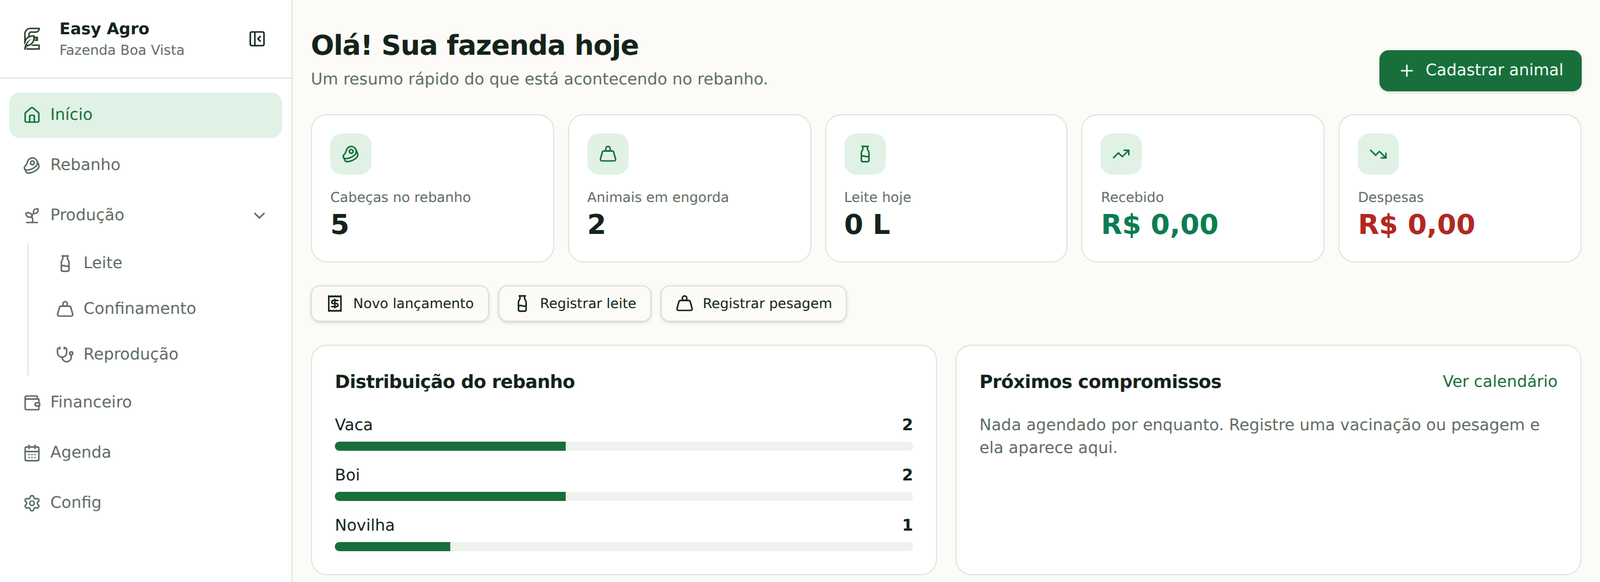
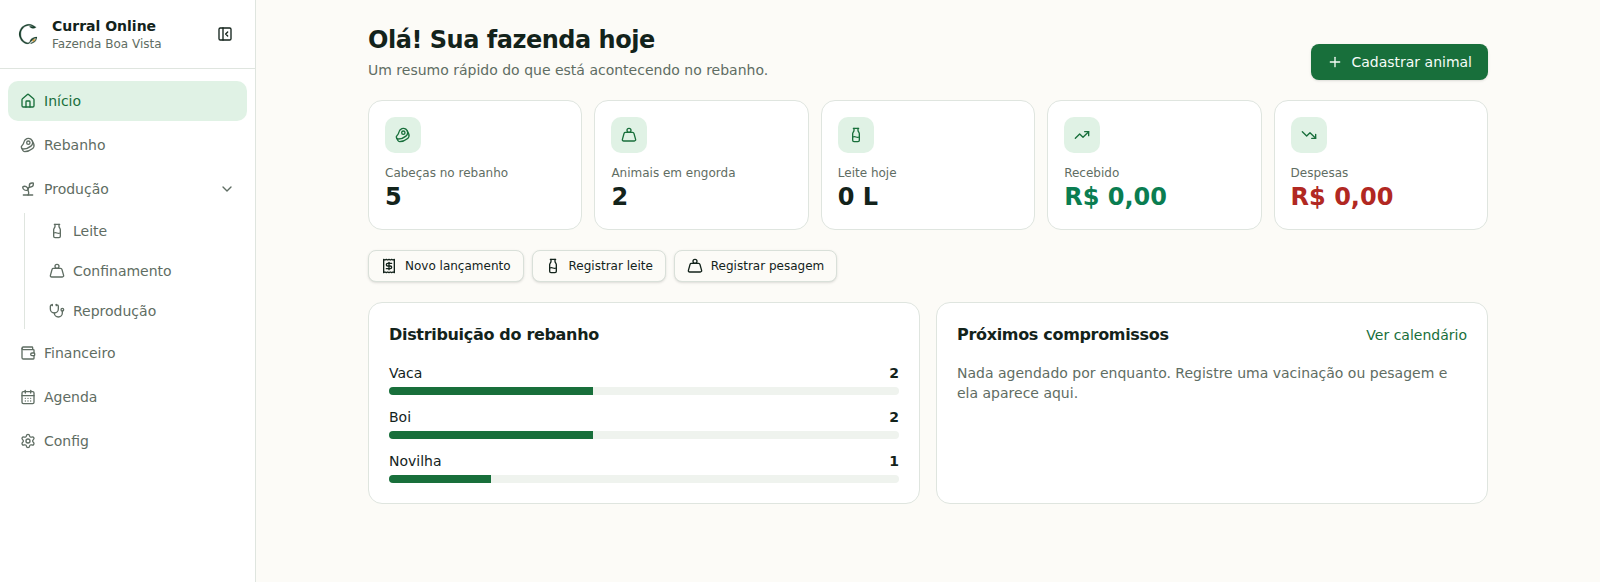
refactor: hero com print do painel, termos mais claros, print atualizado
Landing: remove os chips de módulos do hero (redundantes com a faixa em
movimento logo abaixo) e usa o espaço que sobrava pra mostrar o print real
do painel, que antes só aparecia mais embaixo — tira a seção "Por dentro
do sistema" de ter o mesmo print duplicado.

public/screenshot-inicio.png: recriado a partir do app rodando, substitui
o print antigo que ainda mostrava a marca "Easy Agro".

Termos de uso: nova seção "Fase de testes" deixando explícito que o
produto está em validação, sem garantia de resultado/desempenho.
Política de privacidade: deixa explícito que não coletamos CPF nem outros
documentos, e que a política será atualizada se isso mudar.

Claude-Session: https://claude.ai/code/session_018voyreXKZWSTLXFZ8zXjZs

diff --git a/src/routes/index.tsx b/src/routes/index.tsx
@@ -3,16 +3,12 @@ import {
   ArrowRight,
   Baby,
   Beef,
-  CalendarDays,
   Check,
   ClipboardList,
   Lock,
-  Milk,
   Smartphone,
-  Stethoscope,
   Syringe,
   ShieldCheck,
-  Wallet,
   Weight,
 } from "lucide-react";
 import { PLANOS } from "@/lib/planos";
@@ -55,15 +51,6 @@ const ETAPAS = [
     titulo: "Acompanhe o resultado",
     texto: "Agenda avisa o que vence, financeiro mostra o que entrou e o que saiu.",
   },
-];
-
-const MODULOS = [
-  { icon: Beef, rotulo: "Rebanho" },
-  { icon: Milk, rotulo: "Leite" },
-  { icon: Weight, rotulo: "Confinamento" },
-  { icon: Stethoscope, rotulo: "Reprodução" },
-  { icon: Wallet, rotulo: "Financeiro" },
-  { icon: CalendarDays, rotulo: "Agenda" },
 ];
 
 const DIFERENCIAIS = [
@@ -109,50 +96,63 @@ function Landing() {
         </div>
       </header>
 
-      {/* Hero — fundo claro, mas com blobs de cor e um recorte em verde no
-          título, pra não cair de volta num herói branco e sem vida. */}
+      {/* Hero — fundo claro com um blob de cor e um recorte em verde no
+          título, mais o print real do painel ao lado em vez de espaço
+          vazio, pra não cair de volta num herói branco e sem vida. */}
       <section className="relative overflow-hidden px-5 pt-10 pb-14 sm:pt-16 sm:pb-20">
         <div
           aria-hidden="true"
           className="pointer-events-none absolute -top-24 -left-24 size-80 rounded-full bg-primary/15 blur-3xl"
         />
-        <div
-          aria-hidden="true"
-          className="pointer-events-none absolute top-10 right-0 size-72 rounded-full bg-warning/10 blur-3xl"
-        />
         <div className="relative mx-auto max-w-6xl">
-          <span className="inline-flex items-center rounded-full bg-accent px-3 py-1 text-xs font-semibold tracking-[0.1em] text-primary uppercase">
-            Gestão de rebanho
-          </span>
-          <h1 className="mt-4 max-w-3xl text-4xl leading-[1.05] sm:text-6xl">
-            O controle do seu rebanho{" "}
-            <span className="text-primary">fora da planilha, dentro do bolso.</span>
-          </h1>
-          <p className="mt-5 max-w-xl text-base text-muted-foreground">
-            Cadastre animais, acompanhe manejo, vacinação, pesagem, leite e financeiro. Comece
-            grátis com até 10 cabeças e cresça quando o rebanho crescer.
-          </p>
-          <div className="mt-8 flex flex-wrap gap-3">
-            <Button size="lg" asChild>
-              <Link to="/cadastro">
-                Criar conta grátis
-                <ArrowRight className="size-4" aria-hidden="true" />
-              </Link>
-            </Button>
-            <Button size="lg" variant="outline" asChild>
-              <Link to="/auth">Já tenho conta</Link>
-            </Button>
-          </div>
-          <div className="mt-10 flex flex-wrap gap-2">
-            {MODULOS.map((modulo) => (
-              <span
-                key={modulo.rotulo}
-                className="inline-flex items-center gap-1.5 rounded-full bg-secondary px-3 py-1.5 text-xs font-semibold text-secondary-foreground"
-              >
-                <modulo.icon className="size-3.5 text-primary" aria-hidden="true" />
-                {modulo.rotulo}
+          <div className="grid gap-10 lg:grid-cols-[1.05fr_1fr] lg:items-center">
+            <div>
+              <span className="inline-flex items-center rounded-full bg-accent px-3 py-1 text-xs font-semibold tracking-[0.1em] text-primary uppercase">
+                Gestão de rebanho
               </span>
-            ))}
+              <h1 className="mt-4 max-w-xl text-4xl leading-[1.05] sm:text-6xl">
+                O controle do seu rebanho{" "}
+                <span className="text-primary">fora da planilha, dentro do bolso.</span>
+              </h1>
+              <p className="mt-5 max-w-xl text-base text-muted-foreground">
+                Cadastre animais, acompanhe manejo, vacinação, pesagem, leite e financeiro. Comece
+                grátis com até 10 cabeças e cresça quando o rebanho crescer.
+              </p>
+              <div className="mt-8 flex flex-wrap gap-3">
+                <Button size="lg" asChild>
+                  <Link to="/cadastro">
+                    Criar conta grátis
+                    <ArrowRight className="size-4" aria-hidden="true" />
+                  </Link>
+                </Button>
+                <Button size="lg" variant="outline" asChild>
+                  <Link to="/auth">Já tenho conta</Link>
+                </Button>
+              </div>
+            </div>
+
+            {/* Mockup com um print real do painel — não uma ilustração
+                genérica — dentro de uma moldura de navegador, pra dar peso
+                visual sem inventar uma "demo" que não existe. */}
+            <div className="relative">
+              <div
+                aria-hidden="true"
+                className="absolute -inset-6 -z-10 rounded-[2rem] bg-warning/10 blur-2xl"
+              />
+              <div className="overflow-hidden rounded-xl border border-border bg-background shadow-lg">
+                <div className="flex items-center gap-1.5 border-b border-border bg-card px-3 py-2.5">
+                  <span className="size-2.5 rounded-full bg-destructive/40" />
+                  <span className="size-2.5 rounded-full bg-warning/40" />
+                  <span className="size-2.5 rounded-full bg-success/40" />
+                </div>
+                <img
+                  src="/screenshot-inicio.png"
+                  alt="Painel inicial do Curral Online, com o resumo do rebanho e os próximos compromissos"
+                  className="w-full"
+                  loading="lazy"
+                />
+              </div>
+            </div>
           </div>
         </div>
       </section>
@@ -205,60 +205,30 @@ function Landing() {
 
       <section className="border-y border-border bg-card">
         <div className="mx-auto max-w-6xl px-5 py-16 sm:py-20">
-          <div className="grid gap-12 lg:grid-cols-[1fr_1.1fr] lg:items-center">
-            <div>
-              <p className="text-xs font-semibold tracking-[0.18em] text-primary uppercase">
-                Por dentro do sistema
-              </p>
-              <h2 className="mt-3 max-w-md text-2xl sm:text-3xl">
-                Simples de usar, sério no que importa
-              </h2>
-              <span className="mt-2 flex items-center gap-2 text-sm text-muted-foreground">
-                <Beef className="size-4 text-primary" aria-hidden="true" />
-                Bovinos
-                <span className="text-border">·</span>
-                <Weight className="size-4 text-primary" aria-hidden="true" />
-                Ovinos
-              </span>
+          <p className="text-xs font-semibold tracking-[0.18em] text-primary uppercase">
+            Por dentro do sistema
+          </p>
+          <h2 className="mt-3 max-w-md text-2xl sm:text-3xl">
+            Simples de usar, sério no que importa
+          </h2>
+          <span className="mt-2 flex items-center gap-2 text-sm text-muted-foreground">
+            <Beef className="size-4 text-primary" aria-hidden="true" />
+            Bovinos
+            <span className="text-border">·</span>
+            <Weight className="size-4 text-primary" aria-hidden="true" />
+            Ovinos
+          </span>
 
-              <div className="mt-8 grid gap-3 sm:grid-cols-2">
-                {DIFERENCIAIS.map((item) => (
-                  <div
-                    key={item.titulo}
-                    className="rounded-xl border border-border bg-background p-4"
-                  >
-                    <span className="flex size-9 items-center justify-center rounded-lg bg-primary text-primary-foreground">
-                      <item.icon className="size-4" aria-hidden="true" />
-                    </span>
-                    <h3 className="mt-3 text-sm font-semibold">{item.titulo}</h3>
-                    <p className="mt-1 text-xs text-muted-foreground">{item.texto}</p>
-                  </div>
-                ))}
+          <div className="mt-8 grid gap-3 sm:grid-cols-2 lg:grid-cols-4">
+            {DIFERENCIAIS.map((item) => (
+              <div key={item.titulo} className="rounded-xl border border-border bg-background p-4">
+                <span className="flex size-9 items-center justify-center rounded-lg bg-primary text-primary-foreground">
+                  <item.icon className="size-4" aria-hidden="true" />
+                </span>
+                <h3 className="mt-3 text-sm font-semibold">{item.titulo}</h3>
+                <p className="mt-1 text-xs text-muted-foreground">{item.texto}</p>
               </div>
-            </div>
-
-            {/* Mockup com um print real do painel — não uma ilustração
-                genérica — dentro de uma moldura de navegador, pra dar peso
-                visual sem inventar uma "demo" que não existe. */}
-            <div className="relative">
-              <div
-                aria-hidden="true"
-                className="absolute -inset-6 -z-10 rounded-[2rem] bg-primary/10 blur-2xl"
-              />
-              <div className="overflow-hidden rounded-xl border border-border bg-background shadow-lg">
-                <div className="flex items-center gap-1.5 border-b border-border bg-card px-3 py-2.5">
-                  <span className="size-2.5 rounded-full bg-destructive/40" />
-                  <span className="size-2.5 rounded-full bg-warning/40" />
-                  <span className="size-2.5 rounded-full bg-success/40" />
-                </div>
-                <img
-                  src="/screenshot-inicio.png"
-                  alt="Painel inicial do Curral Online, com o resumo do rebanho e os próximos compromissos"
-                  className="w-full"
-                  loading="lazy"
-                />
-              </div>
-            </div>
+            ))}
           </div>
         </div>
       </section>

diff --git a/src/routes/termos.tsx b/src/routes/termos.tsx
@@ -21,13 +21,21 @@ function Termos() {
       <h1 className="mt-6 text-3xl">Termos de uso</h1>
       <div className="mt-6 space-y-4 text-sm text-muted-foreground">
         <p>
-          O Curral Online é um sistema de gestão de rebanho. Ao criar uma conta, você concorda
-          em usar a plataforma apenas para registrar informações da sua atividade rural.
+          O Curral Online é um sistema de gestão de rebanho. Ao criar uma conta, você concorda em
+          usar a plataforma apenas para registrar informações da sua atividade rural.
         </p>
         <h2 className="text-base font-semibold text-foreground">Conta e responsabilidade</h2>
         <p>
           Você é responsável por manter a senha em sigilo e pelas informações cadastradas. Cada
           fazenda acessa somente os próprios dados.
+        </p>
+        <h2 className="text-base font-semibold text-foreground">Fase de testes</h2>
+        <p>
+          O Curral Online está em fase de validação. Isso significa que o produto pode mudar,
+          apresentar instabilidades e que não garantimos resultado ou desempenho específico — como
+          qualquer sistema em avaliação, use-o como apoio à sua gestão, não como fonte única de
+          decisão. Quando essa fase terminar, avisaremos com antecedência sobre qualquer mudança nas
+          condições de uso ou de cobrança.
         </p>
         <h2 className="text-base font-semibold text-foreground">Planos e cancelamento</h2>
         <p>
@@ -36,8 +44,9 @@ function Termos() {
         </p>
         <h2 className="text-base font-semibold text-foreground">Disponibilidade</h2>
         <p>
-          Trabalhamos para manter o serviço no ar, mas ele pode passar por manutenções. Recomendamos
-          exportar seus dados periodicamente em Configurações.
+          Trabalhamos para manter o serviço no ar, mas ele pode passar por manutenções e, por estar
+          em fase de testes, por instabilidades fora do previsto. Recomendamos exportar seus dados
+          periodicamente em Configurações.
         </p>
       </div>
     </div>

diff --git a/src/routes/privacidade.tsx b/src/routes/privacidade.tsx
@@ -28,13 +28,15 @@ function Privacidade() {
       <div className="mt-6 space-y-4 text-sm text-muted-foreground">
         <h2 className="text-base font-semibold text-foreground">Dados que coletamos</h2>
         <p>
-          Coletamos nome, e-mail e as informações que você cadastra sobre a fazenda, os animais, o
-          manejo, a produção e o financeiro.
+          Coletamos nome e e-mail para identificar sua conta, e as informações que você cadastra
+          sobre a fazenda, os animais, o manejo, a produção e o financeiro. Não coletamos CPF nem
+          outros documentos pessoais. Se isso mudar, atualizaremos esta política informando quais
+          dados passam a ser coletados, para qual finalidade e com quem são compartilhados.
         </p>
         <h2 className="text-base font-semibold text-foreground">Como usamos</h2>
         <p>
-          Os dados são usados apenas para operar o sistema para você. Não vendemos nem compartilhamos
-          informações da sua fazenda com terceiros para publicidade.
+          Os dados são usados apenas para operar o sistema para você. Não vendemos nem
+          compartilhamos informações da sua fazenda com terceiros para publicidade.
         </p>
         <h2 className="text-base font-semibold text-foreground">Segurança</h2>
         <p>
